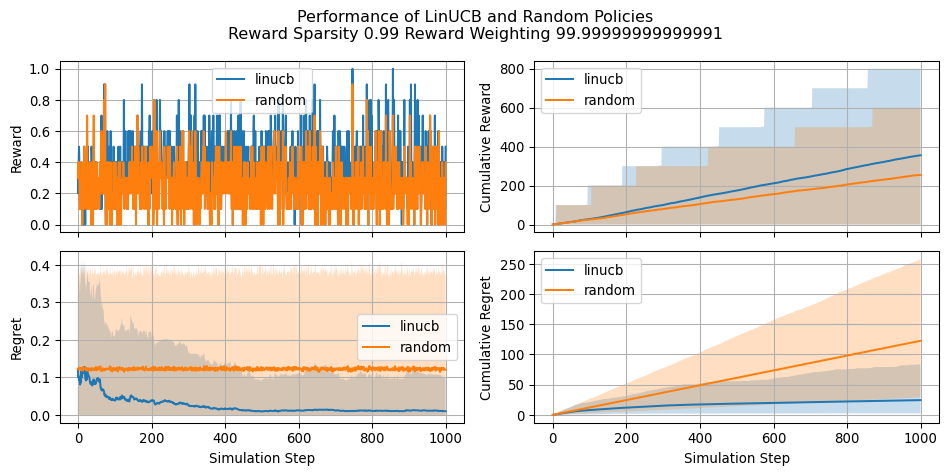
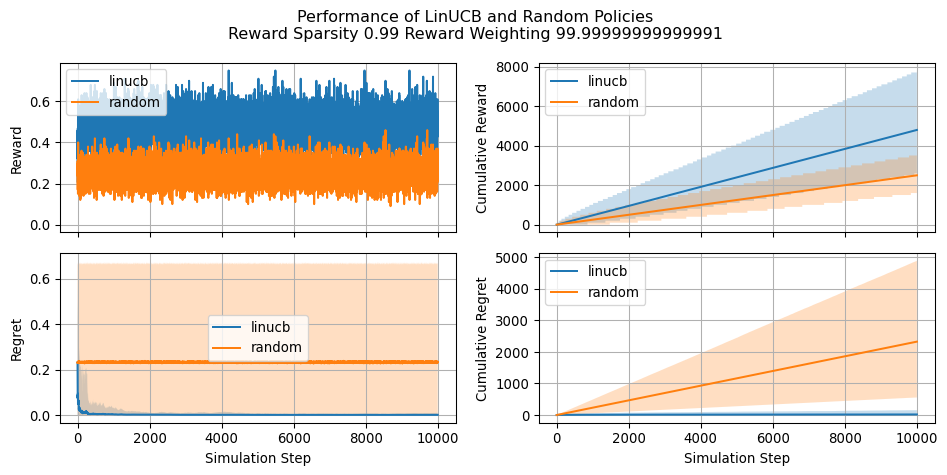
finish linucb post

diff --git a/docs/posts/blog_posts/lin_ucb_jax.html b/docs/posts/blog_posts/lin_ucb_jax.html
@@ -311,7 +311,7 @@ window.Quarto = {
 </header>
 
 
-<div id="bc1f0c11" class="cell" data-vscode="{&quot;languageId&quot;:&quot;python&quot;}" data-execution_count="1">
+<div id="33191ecb" class="cell" data-vscode="{&quot;languageId&quot;:&quot;python&quot;}" data-execution_count="1">
 <details class="code-fold">
 <summary>Show supplementary code</summary>
 <div class="sourceCode cell-code" id="cb1"><pre class="sourceCode python code-with-copy"><code class="sourceCode python"><span id="cb1-1"><a href="#cb1-1" aria-hidden="true" tabindex="-1"></a><span class="op">%</span>load_ext watermark</span>
@@ -416,7 +416,7 @@ r = \begin{cases} 0,&amp; \text{if hurdle} = 0 \\
 Bernoulli(p_{r}),&amp; \text{otherwise} \end{cases}
 \end{gather}
 \]</span></p>
-<div id="65f9c40d" class="cell" data-vscode="{&quot;languageId&quot;:&quot;python&quot;}" data-execution_count="2">
+<div id="6a8e7996" class="cell" data-vscode="{&quot;languageId&quot;:&quot;python&quot;}" data-execution_count="2">
 <div class="sourceCode cell-code" id="cb2"><pre class="sourceCode python code-with-copy"><code class="sourceCode python"><span id="cb2-1"><a href="#cb2-1" aria-hidden="true" tabindex="-1"></a>UNIT_CONTEXT_SIZE <span class="op">=</span> <span class="dv">1</span></span>
 <span id="cb2-2"><a href="#cb2-2" aria-hidden="true" tabindex="-1"></a>UNIT_ARMS <span class="op">=</span> <span class="dv">2</span></span>
 <span id="cb2-3"><a href="#cb2-3" aria-hidden="true" tabindex="-1"></a></span>
@@ -430,12 +430,12 @@ Bernoulli(p_{r}),&amp; \text{otherwise} \end{cases}
 <span id="cb2-11"><a href="#cb2-11" aria-hidden="true" tabindex="-1"></a>REWARD_SPARSITY <span class="op">=</span> <span class="fl">0.99</span></span>
 <span id="cb2-12"><a href="#cb2-12" aria-hidden="true" tabindex="-1"></a>REWARD_WEIGHTING <span class="op">=</span> <span class="dv">1</span> <span class="op">/</span> (<span class="dv">1</span> <span class="op">-</span> REWARD_SPARSITY)</span>
 <span id="cb2-13"><a href="#cb2-13" aria-hidden="true" tabindex="-1"></a></span>
-<span id="cb2-14"><a href="#cb2-14" aria-hidden="true" tabindex="-1"></a>N_USERS <span class="op">=</span> <span class="dv">1000</span></span>
+<span id="cb2-14"><a href="#cb2-14" aria-hidden="true" tabindex="-1"></a>N_USERS <span class="op">=</span> <span class="dv">10000</span></span>
 <span id="cb2-15"><a href="#cb2-15" aria-hidden="true" tabindex="-1"></a></span>
 <span id="cb2-16"><a href="#cb2-16" aria-hidden="true" tabindex="-1"></a>N_ARMS <span class="op">=</span> UNIT_ARMS <span class="op">**</span> <span class="dv">2</span> <span class="co"># We ensure we can always plot the arms in a squared grid</span></span>
 <span id="cb2-17"><a href="#cb2-17" aria-hidden="true" tabindex="-1"></a>CLASS_SEP <span class="op">=</span> <span class="fl">.9</span></span></code><button title="Copy to Clipboard" class="code-copy-button"><i class="bi"></i></button></pre></div>
 </div>
-<div id="e083d02e" class="cell" data-vscode="{&quot;languageId&quot;:&quot;python&quot;}" data-execution_count="3">
+<div id="4453706c" class="cell" data-vscode="{&quot;languageId&quot;:&quot;python&quot;}" data-execution_count="3">
 <details class="code-fold">
 <summary>Show supplementary code</summary>
 <div class="sourceCode cell-code" id="cb3"><pre class="sourceCode python code-with-copy"><code class="sourceCode python"><span id="cb3-1"><a href="#cb3-1" aria-hidden="true" tabindex="-1"></a><span class="kw">def</span> generate_context(n_arms, n_users, context_size, redundant, repeated, informative, clusters_per_class, class_sep, with_intercept<span class="op">=</span><span class="va">True</span>):</span>
@@ -470,7 +470,7 @@ Bernoulli(p_{r}),&amp; \text{otherwise} \end{cases}
 <span id="cb3-30"><a href="#cb3-30" aria-hidden="true" tabindex="-1"></a>    <span class="cf">return</span> context</span></code><button title="Copy to Clipboard" class="code-copy-button"><i class="bi"></i></button></pre></div>
 </details>
 </div>
-<div id="dfb9a508" class="cell" data-vscode="{&quot;languageId&quot;:&quot;python&quot;}" data-execution_count="4">
+<div id="dd2b361f" class="cell" data-vscode="{&quot;languageId&quot;:&quot;python&quot;}" data-execution_count="4">
 <div class="sourceCode cell-code" id="cb4"><pre class="sourceCode python code-with-copy"><code class="sourceCode python"><span id="cb4-1"><a href="#cb4-1" aria-hidden="true" tabindex="-1"></a>CONTEXT, GROUPS <span class="op">=</span> generate_context(</span>
 <span id="cb4-2"><a href="#cb4-2" aria-hidden="true" tabindex="-1"></a>    n_arms<span class="op">=</span>N_ARMS, </span>
 <span id="cb4-3"><a href="#cb4-3" aria-hidden="true" tabindex="-1"></a>    n_users<span class="op">=</span>N_USERS, </span>
@@ -494,7 +494,7 @@ Bernoulli(p_{r}),&amp; \text{otherwise} \end{cases}
 <span id="cb4-21"><a href="#cb4-21" aria-hidden="true" tabindex="-1"></a>)</span></code><button title="Copy to Clipboard" class="code-copy-button"><i class="bi"></i></button></pre></div>
 </div>
 <p>Here we will use TSNE for projecting the multidimensional context space on a 2D plane, this should allow us to get a better intuition of what is going on. What we expect to see are separate spheres or regions (this depends on how much noise we encode in our context space) with different coloring depending on which arms they are associated with</p>
-<div id="760b663f" class="cell" data-vscode="{&quot;languageId&quot;:&quot;python&quot;}" data-execution_count="5">
+<div id="57d894af" class="cell" data-vscode="{&quot;languageId&quot;:&quot;python&quot;}" data-execution_count="5">
 <div class="sourceCode cell-code" id="cb5"><pre class="sourceCode python code-with-copy"><code class="sourceCode python"><span id="cb5-1"><a href="#cb5-1" aria-hidden="true" tabindex="-1"></a>embedding <span class="op">=</span> TSNE().fit_transform(CONTEXT[:, <span class="dv">0</span>, :])</span>
 <span id="cb5-2"><a href="#cb5-2" aria-hidden="true" tabindex="-1"></a></span>
 <span id="cb5-3"><a href="#cb5-3" aria-hidden="true" tabindex="-1"></a>fig, axs <span class="op">=</span> plt.subplots(UNIT_ARMS, UNIT_ARMS, figsize<span class="op">=</span>(<span class="dv">8</span>, <span class="dv">8</span>), sharex<span class="op">=</span><span class="va">True</span>, sharey<span class="op">=</span><span class="va">True</span>)</span>
@@ -555,7 +555,7 @@ Bernoulli(p_{r}),&amp; \text{otherwise} \end{cases}
 <section id="parameters-initialization" class="level2" data-number="3.1">
 <h2 data-number="3.1" class="anchored" data-anchor-id="parameters-initialization"><span class="header-section-number">3.1</span> Parameters Initialization</h2>
 <p>As a first step we will need to initialize the matrices for <span class="math inline">\(X\)</span> and <span class="math inline">\(r\)</span> from this point onward we will call them <span class="math inline">\(A\)</span> and <span class="math inline">\(b\)</span> as mentioned in [li2010contextual].</p>
-<div id="570152c9" class="cell" data-vscode="{&quot;languageId&quot;:&quot;python&quot;}" data-execution_count="6">
+<div id="c643de0a" class="cell" data-vscode="{&quot;languageId&quot;:&quot;python&quot;}" data-execution_count="6">
 <div class="sourceCode cell-code" id="cb6"><pre class="sourceCode python code-with-copy"><code class="sourceCode python"><span id="cb6-1"><a href="#cb6-1" aria-hidden="true" tabindex="-1"></a><span class="kw">def</span> init_matrices(context_size: <span class="bu">int</span>) <span class="op">-&gt;</span> Tuple[ArrayLike, ...]:</span>
 <span id="cb6-2"><a href="#cb6-2" aria-hidden="true" tabindex="-1"></a>    A <span class="op">=</span> jnp.eye(N<span class="op">=</span>context_size)</span>
 <span id="cb6-3"><a href="#cb6-3" aria-hidden="true" tabindex="-1"></a>    b <span class="op">=</span> jnp.zeros(shape<span class="op">=</span>(context_size, <span class="dv">1</span>))</span>
@@ -585,7 +585,7 @@ Bernoulli(p_{r}),&amp; \text{otherwise} \end{cases}
 <p>We will now define the code for the various computations, namely deriving the <span class="math inline">\(\theta\)</span> and <span class="math inline">\(\sigma\)</span> parameters. And subsequently estimating the expectation for the return as well as the UCB.</p>
 <p>In order to speed up the computation, we will leverage the <a href="https://docs.jax.dev/en/latest/jit-compilation.html">Just in Time Compilation</a> functionality in JAX as well as its <a href="https://docs.jax.dev/en/latest/automatic-vectorization.html">automatic vectorization</a>.</p>
 <p>The first one will allow us to cache computations that are used multiple times by the LinUCB algorithm, while the second one will allow us in this case to vectorize the computation across all the arms in our bandit problem (instead of slowly iterating through them).</p>
-<div id="96cfc989" class="cell" data-vscode="{&quot;languageId&quot;:&quot;python&quot;}" data-execution_count="7">
+<div id="15eecf11" class="cell" data-vscode="{&quot;languageId&quot;:&quot;python&quot;}" data-execution_count="7">
 <div class="sourceCode cell-code" id="cb7"><pre class="sourceCode python code-with-copy"><code class="sourceCode python"><span id="cb7-1"><a href="#cb7-1" aria-hidden="true" tabindex="-1"></a><span class="at">@jit</span></span>
 <span id="cb7-2"><a href="#cb7-2" aria-hidden="true" tabindex="-1"></a><span class="kw">def</span> compute_theta(</span>
 <span id="cb7-3"><a href="#cb7-3" aria-hidden="true" tabindex="-1"></a>        A_inverse: ArrayLike, </span>
@@ -672,7 +672,7 @@ Bernoulli(p_{r}),&amp; \text{otherwise} \end{cases}
 <section id="update-parameters" class="level2" data-number="3.3">
 <h2 data-number="3.3" class="anchored" data-anchor-id="update-parameters"><span class="header-section-number">3.3</span> Update parameters</h2>
 <p>This section define the code used for updating the parameters associated with each of the arms, this function will be called dynamically during the simulation and will update the arms specified by the <code>policy</code> selected by the algorithm with the <code>reward</code> associated with said policy.</p>
-<div id="2d756aba" class="cell" data-vscode="{&quot;languageId&quot;:&quot;python&quot;}" data-execution_count="8">
+<div id="e0154adc" class="cell" data-vscode="{&quot;languageId&quot;:&quot;python&quot;}" data-execution_count="8">
 <div class="sourceCode cell-code" id="cb8"><pre class="sourceCode python code-with-copy"><code class="sourceCode python"><span id="cb8-1"><a href="#cb8-1" aria-hidden="true" tabindex="-1"></a><span class="at">@jit</span></span>
 <span id="cb8-2"><a href="#cb8-2" aria-hidden="true" tabindex="-1"></a><span class="kw">def</span> update_parameters(</span>
 <span id="cb8-3"><a href="#cb8-3" aria-hidden="true" tabindex="-1"></a>    arms_A: ArrayLike, </span>
@@ -716,7 +716,7 @@ Note
 <p>Note the importance of the <code>step_key</code> argument which is required for executing stochastic behaviors in JAX. More details can be found int the <a href="https://docs.jax.dev/en/latest/jax.random.html">documentation about the stateless random number generators</a>.</p>
 </div>
 </div>
-<div id="77b462ab" class="cell" data-vscode="{&quot;languageId&quot;:&quot;python&quot;}" data-execution_count="9">
+<div id="a5527a8a" class="cell" data-vscode="{&quot;languageId&quot;:&quot;python&quot;}" data-execution_count="9">
 <div class="sourceCode cell-code" id="cb9"><pre class="sourceCode python code-with-copy"><code class="sourceCode python"><span id="cb9-1"><a href="#cb9-1" aria-hidden="true" tabindex="-1"></a><span class="at">@jit</span></span>
 <span id="cb9-2"><a href="#cb9-2" aria-hidden="true" tabindex="-1"></a><span class="kw">def</span> step(</span>
 <span id="cb9-3"><a href="#cb9-3" aria-hidden="true" tabindex="-1"></a>        policy: ArrayLike, </span>
@@ -743,7 +743,7 @@ Note
 <section id="executing-the-policies" class="level2" data-number="4.2">
 <h2 data-number="4.2" class="anchored" data-anchor-id="executing-the-policies"><span class="header-section-number">4.2</span> Executing the policies</h2>
 <p>Executing the policies simply boils down to selecting the arm given the <code>upper_bound</code> computed by the LinUCB algorithm. In our case that correspond to take the arg-max of the generated <code>upper_bound</code>. For having a comparison term, we also implemented a random policy that simply selects one of the available arms at random.</p>
-<div id="4b2dd81c" class="cell" data-execution_count="10">
+<div id="de000b3f" class="cell" data-execution_count="10">
 <div class="sourceCode cell-code" id="cb10"><pre class="sourceCode python code-with-copy"><code class="sourceCode python"><span id="cb10-1"><a href="#cb10-1" aria-hidden="true" tabindex="-1"></a><span class="at">@jit</span></span>
 <span id="cb10-2"><a href="#cb10-2" aria-hidden="true" tabindex="-1"></a><span class="kw">def</span> execute_policies(</span>
 <span id="cb10-3"><a href="#cb10-3" aria-hidden="true" tabindex="-1"></a>        upper_bound: ArrayLike, </span>
@@ -758,7 +758,7 @@ Note
 <span id="cb10-12"><a href="#cb10-12" aria-hidden="true" tabindex="-1"></a>    <span class="cf">return</span> linucb_policy, random_policy</span></code><button title="Copy to Clipboard" class="code-copy-button"><i class="bi"></i></button></pre></div>
 </div>
 <p>Once we have defined the logic for our simulation step and policies, we simply have to cycle through these policies and evaluate what type of reward they would obtain.</p>
-<div id="fe6d2652" class="cell" data-execution_count="11">
+<div id="d99b6272" class="cell" data-execution_count="11">
 <div class="sourceCode cell-code" id="cb11"><pre class="sourceCode python code-with-copy"><code class="sourceCode python"><span id="cb11-1"><a href="#cb11-1" aria-hidden="true" tabindex="-1"></a><span class="at">@jit</span></span>
 <span id="cb11-2"><a href="#cb11-2" aria-hidden="true" tabindex="-1"></a><span class="kw">def</span> compute_rewards(</span>
 <span id="cb11-3"><a href="#cb11-3" aria-hidden="true" tabindex="-1"></a>        linucb_policy: ArrayLike, </span>
@@ -783,7 +783,7 @@ Note
 <span id="cb11-22"><a href="#cb11-22" aria-hidden="true" tabindex="-1"></a>    <span class="cf">return</span> arms_rewards</span></code><button title="Copy to Clipboard" class="code-copy-button"><i class="bi"></i></button></pre></div>
 </div>
 <p>An interesting metric to compute on top of the reward obtained by executing a given policy is the regret. Regret can be thought as the distance between the optimal behavior the one produced by a given policy. In our case we compute the regret as the difference between the reward probability associated with the optimal arm and the probability associate with the arm selected by every policy.</p>
-<div id="c5e6c975" class="cell" data-execution_count="12">
+<div id="f64dd9aa" class="cell" data-execution_count="12">
 <div class="sourceCode cell-code" id="cb12"><pre class="sourceCode python code-with-copy"><code class="sourceCode python"><span id="cb12-1"><a href="#cb12-1" aria-hidden="true" tabindex="-1"></a><span class="at">@jit</span></span>
 <span id="cb12-2"><a href="#cb12-2" aria-hidden="true" tabindex="-1"></a><span class="kw">def</span> compute_regrets(</span>
 <span id="cb12-3"><a href="#cb12-3" aria-hidden="true" tabindex="-1"></a>        linucb_policy: ArrayLike, </span>
@@ -813,7 +813,7 @@ Note
 </ol>
 <p>We can notice that <code>simulate_interaction</code> receives many of the needed variables from a <code>carry</code> parameter, which is then re-built and returned at the end. This structure is necessary for leveraging JAX <a href="https://docs.jax.dev/en/latest/_autosummary/jax.lax.scan.html"><code>scan</code></a> in place of an expensive for-loop.</p>
 <p>The <code>scan</code> primitive allows us to JIT-compile the for loop without having to un-roll all the computations first (e.g., in case of 1000 iterations, this would have required JAX for first compile all the 1000 computations), which would have required a compilation time that <a href="https://github.com/jax-ml/jax/discussions/15222">grows as the square of the number of iterations</a>. In our case we are using it for speeding up the compilation of the interactions-loop required for running the simulation.</p>
-<div id="ade9a0e3" class="cell" data-execution_count="13">
+<div id="edf76831" class="cell" data-execution_count="13">
 <div class="sourceCode cell-code" id="cb13"><pre class="sourceCode python code-with-copy"><code class="sourceCode python"><span id="cb13-1"><a href="#cb13-1" aria-hidden="true" tabindex="-1"></a><span class="at">@jit</span></span>
 <span id="cb13-2"><a href="#cb13-2" aria-hidden="true" tabindex="-1"></a><span class="kw">def</span> simulate_interaction(</span>
 <span id="cb13-3"><a href="#cb13-3" aria-hidden="true" tabindex="-1"></a>        carry: Tuple[ArrayLike, ...], </span>
@@ -883,8 +883,8 @@ Note
 <li><p>We generate a PRNG <code>split_key</code> which will then be feeded inside the simulation. This is very important as it is the root PRNG key which will generate all the others required for the stochastic behaviours in our code.</p></li>
 <li><p>The return from <code>scan</code> is always made of two component, the <code>carry</code> and the “result”. Although the carry is “consumed” inside the function that is scanned, the result stacks as we would normally expect in a for python loop (e.g., if we scan over a 1000 elements we will obtain 1000 stacked results).</p></li>
 </ol>
-<div id="39bff8cd" class="cell" data-vscode="{&quot;languageId&quot;:&quot;python&quot;}" data-execution_count="14">
-<div class="sourceCode cell-code" id="cb14"><pre class="sourceCode python code-with-copy"><code class="sourceCode python"><span id="cb14-1"><a href="#cb14-1" aria-hidden="true" tabindex="-1"></a>SIMULATION_STEPS <span class="op">=</span> <span class="dv">1000</span></span>
+<div id="b63b6980" class="cell" data-vscode="{&quot;languageId&quot;:&quot;python&quot;}" data-execution_count="14">
+<div class="sourceCode cell-code" id="cb14"><pre class="sourceCode python code-with-copy"><code class="sourceCode python"><span id="cb14-1"><a href="#cb14-1" aria-hidden="true" tabindex="-1"></a>SIMULATION_STEPS <span class="op">=</span> <span class="dv">10000</span></span>
 <span id="cb14-2"><a href="#cb14-2" aria-hidden="true" tabindex="-1"></a></span>
 <span id="cb14-3"><a href="#cb14-3" aria-hidden="true" tabindex="-1"></a>split_key <span class="op">=</span> random.PRNGKey(<span class="dv">666</span>)</span>
 <span id="cb14-4"><a href="#cb14-4" aria-hidden="true" tabindex="-1"></a>arms_A, arms_b <span class="op">=</span> init_matrices_for_all_arms(</span>
@@ -907,7 +907,8 @@ Note
 </section>
 <section id="performance-visualisation" class="level1" data-number="6">
 <h1 data-number="6"><span class="header-section-number">6</span> Performance Visualisation</h1>
-<div id="2a9c18bb" class="cell" data-vscode="{&quot;languageId&quot;:&quot;python&quot;}" data-execution_count="15">
+<p>Let’s see now how our implementation of LinUCB compares against a naive random policy and how the estimated parameters changes during the simulation. Let’s keep in mind that greater (cumulative) reward indicates a more effective policy. Conversely, a lower cumulative regret is indicative of a better policy. We will see that regret becomes a particulary useful when asessing the performance in situations where reward is very sparse.</p>
+<div id="c64b880c" class="cell" data-vscode="{&quot;languageId&quot;:&quot;python&quot;}" data-execution_count="15">
 <details class="code-fold">
 <summary>Show supplementary code</summary>
 <div class="sourceCode cell-code" id="cb15"><pre class="sourceCode python code-with-copy"><code class="sourceCode python"><span id="cb15-1"><a href="#cb15-1" aria-hidden="true" tabindex="-1"></a><span class="kw">def</span> compute_policy_diagnostics_summaries(diagnostics):</span>
@@ -1001,7 +1002,8 @@ Note
 </div>
 <section id="visulize-reward-and-regret-performance" class="level2" data-number="6.1">
 <h2 data-number="6.1" class="anchored" data-anchor-id="visulize-reward-and-regret-performance"><span class="header-section-number">6.1</span> Visulize reward and regret performance</h2>
-<div id="a3bce3e6" class="cell" data-vscode="{&quot;languageId&quot;:&quot;python&quot;}" data-execution_count="16">
+<p>Since our simulation involves selecting the optimal arm for a large sampole of users (i.e.&nbsp;10,000), we will alwways try to visualize <strong>expected</strong> reward and regret along with the 2.5 and 97.5 percentiles (the shaded are in the plot).</p>
+<div id="0e079328" class="cell" data-vscode="{&quot;languageId&quot;:&quot;python&quot;}" data-execution_count="16">
 <div class="sourceCode cell-code" id="cb16"><pre class="sourceCode python code-with-copy"><code class="sourceCode python"><span id="cb16-1"><a href="#cb16-1" aria-hidden="true" tabindex="-1"></a>diagnostics_summaries <span class="op">=</span> compute_policy_diagnostics_summaries(</span>
 <span id="cb16-2"><a href="#cb16-2" aria-hidden="true" tabindex="-1"></a>    diagnostics<span class="op">=</span>diagnostics[<span class="st">"policies"</span>]</span>
 <span id="cb16-3"><a href="#cb16-3" aria-hidden="true" tabindex="-1"></a>)</span>
@@ -1021,7 +1023,7 @@ Note
 </div>
 </div>
 <p>Let’s also have a look at how the simulation changes as we change the <code>reward_sparsity</code> and <code>reward_weighting</code> parameters</p>
-<div id="08d394f0" class="cell" data-vscode="{&quot;languageId&quot;:&quot;python&quot;}" data-execution_count="17">
+<div id="50675300" class="cell" data-vscode="{&quot;languageId&quot;:&quot;python&quot;}" data-execution_count="17">
 <details class="code-fold">
 <summary>Show supplementary code</summary>
 <div class="sourceCode cell-code" id="cb17"><pre class="sourceCode python code-with-copy"><code class="sourceCode python"><span id="cb17-1"><a href="#cb17-1" aria-hidden="true" tabindex="-1"></a><span class="kw">def</span> run_parametrized_simulation(reward_sparsity, reward_weighting):</span>
@@ -1056,7 +1058,8 @@ Note
 <span id="cb17-30"><a href="#cb17-30" aria-hidden="true" tabindex="-1"></a>    <span class="cf">return</span> <span class="va">None</span></span></code><button title="Copy to Clipboard" class="code-copy-button"><i class="bi"></i></button></pre></div>
 </details>
 </div>
-<div id="8d952108" class="cell" data-vscode="{&quot;languageId&quot;:&quot;python&quot;}" data-execution_count="18">
+<p>Here we maintain the same sparsity level but reduce the weighting (we basically introduce no weighting)</p>
+<div id="3e57f5b1" class="cell" data-vscode="{&quot;languageId&quot;:&quot;python&quot;}" data-execution_count="18">
 <div class="sourceCode cell-code" id="cb18"><pre class="sourceCode python code-with-copy"><code class="sourceCode python"><span id="cb18-1"><a href="#cb18-1" aria-hidden="true" tabindex="-1"></a>run_parametrized_simulation(</span>
 <span id="cb18-2"><a href="#cb18-2" aria-hidden="true" tabindex="-1"></a>    reward_sparsity<span class="op">=</span>REWARD_SPARSITY, </span>
 <span id="cb18-3"><a href="#cb18-3" aria-hidden="true" tabindex="-1"></a>    reward_weighting<span class="op">=</span><span class="dv">1</span></span>
@@ -1069,7 +1072,8 @@ Note
 </div>
 </div>
 </div>
-<div id="c0d0f102" class="cell" data-vscode="{&quot;languageId&quot;:&quot;python&quot;}" data-execution_count="19">
+<p>While in here we reduce the sparsity of the reward and maintain that weighting at 1:</p>
+<div id="e60caf02" class="cell" data-vscode="{&quot;languageId&quot;:&quot;python&quot;}" data-execution_count="19">
 <div class="sourceCode cell-code" id="cb19"><pre class="sourceCode python code-with-copy"><code class="sourceCode python"><span id="cb19-1"><a href="#cb19-1" aria-hidden="true" tabindex="-1"></a>run_parametrized_simulation(</span>
 <span id="cb19-2"><a href="#cb19-2" aria-hidden="true" tabindex="-1"></a>    reward_sparsity<span class="op">=</span><span class="fl">.1</span>, </span>
 <span id="cb19-3"><a href="#cb19-3" aria-hidden="true" tabindex="-1"></a>    reward_weighting<span class="op">=</span><span class="dv">1</span></span>
@@ -1085,7 +1089,10 @@ Note
 </section>
 <section id="visulize-parameters-evolution" class="level2" data-number="6.2">
 <h2 data-number="6.2" class="anchored" data-anchor-id="visulize-parameters-evolution"><span class="header-section-number">6.2</span> Visulize Parameters Evolution</h2>
-<div id="429b2a19" class="cell" data-vscode="{&quot;languageId&quot;:&quot;python&quot;}" data-execution_count="20">
+<p>In this section we will visualize how the parameters used by the LinUCB algorithms evolve over the simulation time, in particular we will focus on the <code>b</code> parameters.</p>
+<p>Since this can be thought as the the coefficient of a (regularized) linear regression, we can see its evolution for each of the considered arm as the “relevance” that a given covariate in a context has in determining the likelyhood of receiveing a reward.</p>
+<p>Similarly, the evolution of the covariance illustrate how the relationship between the various <code>b</code> parameters change over the simulation steps.</p>
+<div id="b640f5ce" class="cell" data-vscode="{&quot;languageId&quot;:&quot;python&quot;}" data-execution_count="20">
 <details class="code-fold">
 <summary>Show supplementary code</summary>
 <div class="sourceCode cell-code" id="cb20"><pre class="sourceCode python code-with-copy"><code class="sourceCode python"><span id="cb20-1"><a href="#cb20-1" aria-hidden="true" tabindex="-1"></a><span class="kw">def</span> plot_single_arm_parameters_dianoistics(arm, diagnostics, figsize, show_labels<span class="op">=</span><span class="va">True</span>):</span>
@@ -1134,7 +1141,7 @@ Note
 <span id="cb20-44"><a href="#cb20-44" aria-hidden="true" tabindex="-1"></a>    <span class="cf">return</span> fig</span></code><button title="Copy to Clipboard" class="code-copy-button"><i class="bi"></i></button></pre></div>
 </details>
 </div>
-<div id="b1cc9a75" class="cell" data-vscode="{&quot;languageId&quot;:&quot;python&quot;}" data-execution_count="21">
+<div id="333826fe" class="cell" data-vscode="{&quot;languageId&quot;:&quot;python&quot;}" data-execution_count="21">
 <div class="sourceCode cell-code" id="cb21"><pre class="sourceCode python code-with-copy"><code class="sourceCode python"><span id="cb21-1"><a href="#cb21-1" aria-hidden="true" tabindex="-1"></a><span class="cf">for</span> arm <span class="kw">in</span> <span class="bu">range</span>(N_ARMS):</span>
 <span id="cb21-2"><a href="#cb21-2" aria-hidden="true" tabindex="-1"></a></span>
 <span id="cb21-3"><a href="#cb21-3" aria-hidden="true" tabindex="-1"></a>    fig <span class="op">=</span> plot_single_arm_parameters_dianoistics(</span>
@@ -1176,14 +1183,15 @@ Note
 </section>
 <section id="conclusion" class="level1" data-number="7">
 <h1 data-number="7"><span class="header-section-number">7</span> Conclusion</h1>
+<p>In this post we provided a brief overview of the LinUCB algorithm and illustrated how to implement it using JAX for speeding up computations. We saw how LinUCB resulted effective when compared with a random policy even in situation of extremely high reward sparsity. We also saw how applying weighting to the reward signal is an effective strtegy for mitigating said sparsity.</p>
 </section>
 <section id="hardware-and-requirements" class="level1" data-number="8">
 <h1 data-number="8"><span class="header-section-number">8</span> Hardware and Requirements</h1>
 <p>Here you can find the hardware and python requirements used for building this post.</p>
-<div id="7d11cf7e" class="cell" data-execution_count="22">
+<div id="ed83dbfc" class="cell" data-execution_count="22">
 <div class="sourceCode cell-code" id="cb22"><pre class="sourceCode python code-with-copy"><code class="sourceCode python"><span id="cb22-1"><a href="#cb22-1" aria-hidden="true" tabindex="-1"></a><span class="op">%</span>watermark</span></code><button title="Copy to Clipboard" class="code-copy-button"><i class="bi"></i></button></pre></div>
 <div class="cell-output cell-output-stdout">
-<pre><code>Last updated: 2025-03-28T09:21:46.487480+00:00
+<pre><code>Last updated: 2025-03-29T13:18:45.106569+00:00
 
 Python implementation: CPython
 Python version       : 3.13.2
@@ -1199,12 +1207,12 @@ Architecture: 64bit
 </code></pre>
 </div>
 </div>
-<div id="8e124009" class="cell" data-execution_count="23">
+<div id="55600c80" class="cell" data-execution_count="23">
 <div class="sourceCode cell-code" id="cb24"><pre class="sourceCode python code-with-copy"><code class="sourceCode python"><span id="cb24-1"><a href="#cb24-1" aria-hidden="true" tabindex="-1"></a><span class="op">%</span>watermark <span class="op">--</span>iversions</span></code><button title="Copy to Clipboard" class="code-copy-button"><i class="bi"></i></button></pre></div>
 <div class="cell-output cell-output-stdout">
-<pre><code>jax       : 0.5.2
-sklearn   : 1.6.1
+<pre><code>sklearn   : 1.6.1
 matplotlib: 3.10.1
+jax       : 0.5.2
 numpy     : 2.2.4
 </code></pre>
 </div>

diff --git a/docs/posts/blog_posts/index.html b/docs/posts/blog_posts/index.html
@@ -244,7 +244,7 @@ window.Quarto = {
 
 <div class="quarto-listing quarto-listing-container-default" id="listing-listing">
 <div class="list quarto-listing-default">
[2 lines of base64/hex data omitted]
 <div class="thumbnail">
 <p><a href="../../posts/blog_posts/lin_ucb_jax.html" class="no-external"></a></p><a href="../../posts/blog_posts/lin_ucb_jax.html" class="no-external">
 <p class="card-img-top"><img src="lin_ucb_jax_files/figure-html/cell-6-output-1.png"  class="thumbnail-image card-img"/></p>
